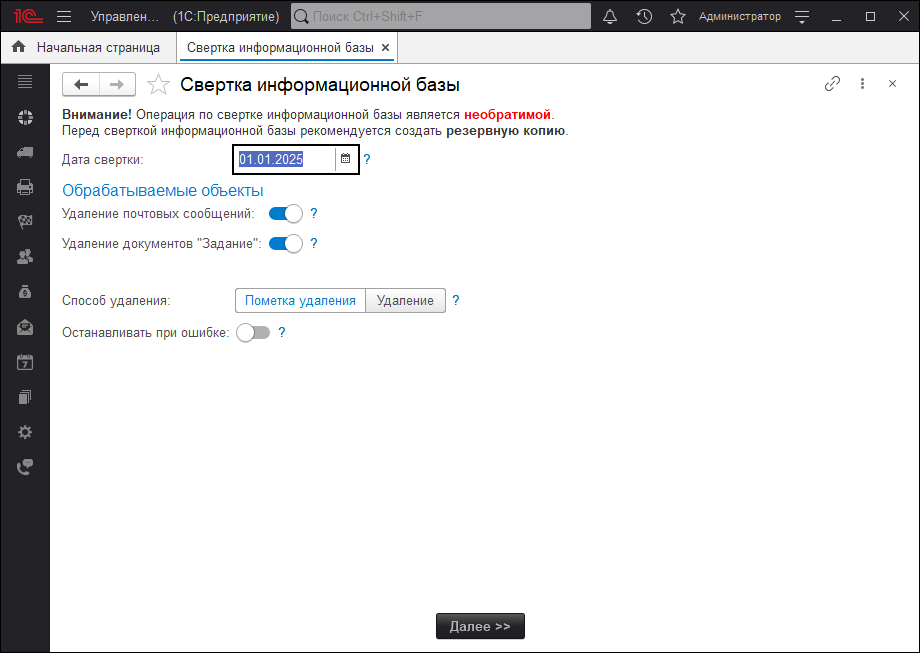
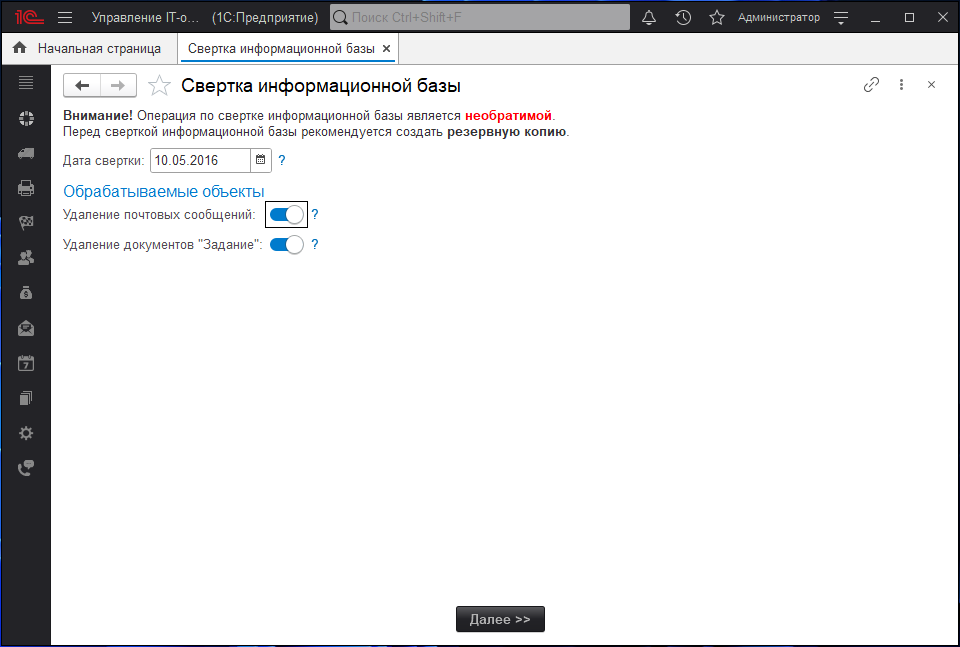
docs(T-16191): Изменены скриншоты

Changed region(s): [[0.0, 0.0, 1.0, 0.7419], [0.0, 0.9274, 1.0, 1.0]]

diff --git a/Администрирование/Свертка информационной базы.md b/Администрирование/Свертка информационной базы.md
@@ -24,7 +24,9 @@
 
 Обработка дополнительно показывает прогресс и сколько осталось времени для обработки всех объектов.
 
-![Прогресс свертки информационной базы Управление IT-отделом 8](static/svertka-progress.png "Прогресс свертки информационной базы Управление IT-отделом 8")
+![Прогресс свертки информационной базы Управление IT-отделом 8](static/svertka.gif "Прогресс свертки информационной базы Управление IT-отделом 8")
+
+В зависимости от количества устаревших объектов в информационной базе и мощности вашего сервера, процесс свертки **может быть очень долгим**. Если вы оказались в ситуации, когда объектов для обработки много, то рекомендуем делать свертку небольшими периодами (например за год) и постепенно сделать свертку полностью.
 
 !!!tip Совет
 Желательно, чтобы в процессе удаления база не использовалась. Но, в принципе, остальным пользователям можно продолжить работу если это критично для вашей организации.
